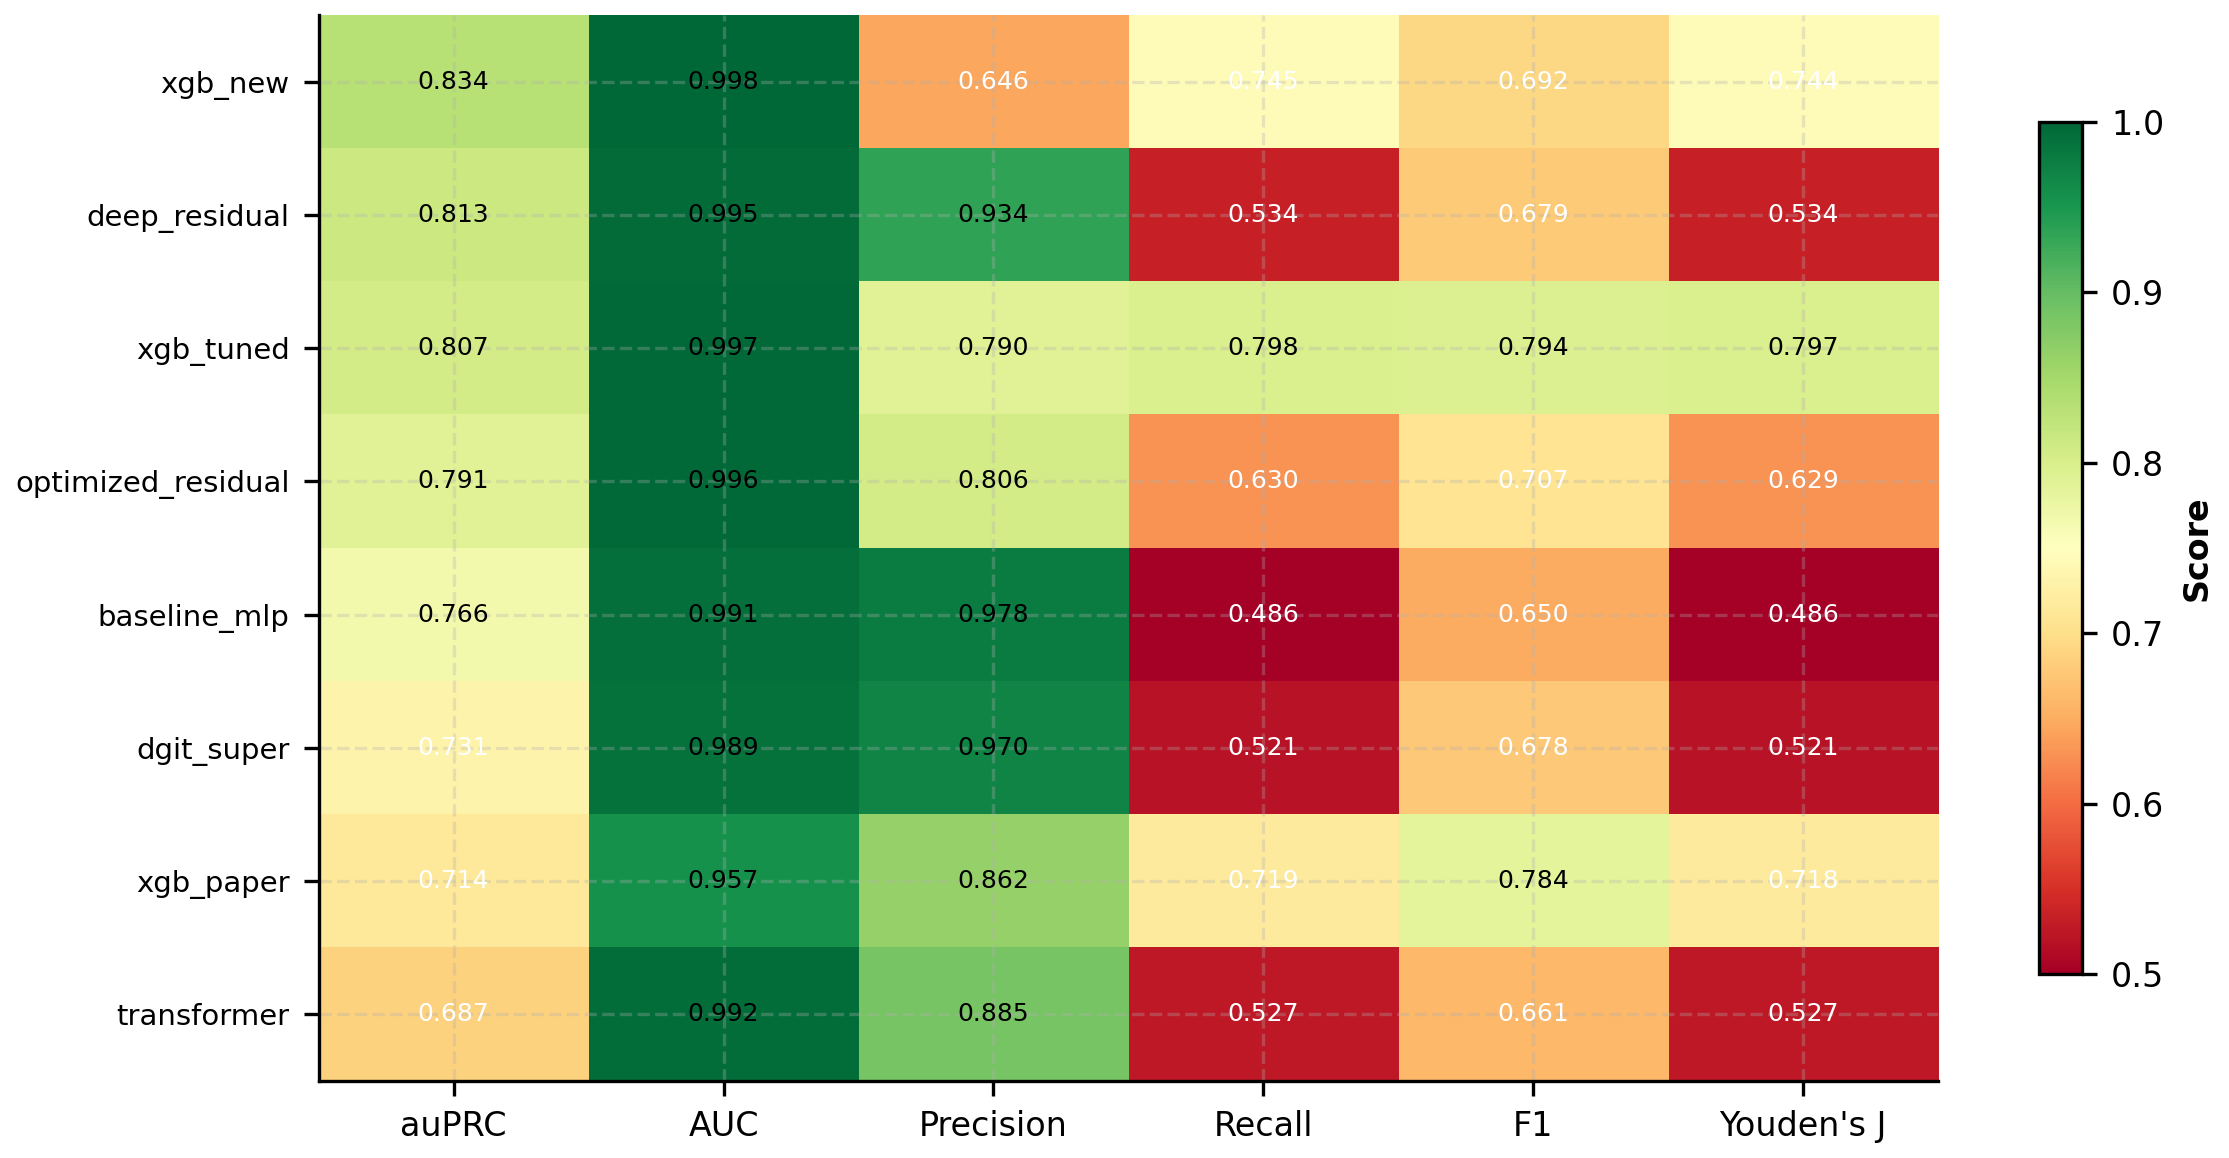
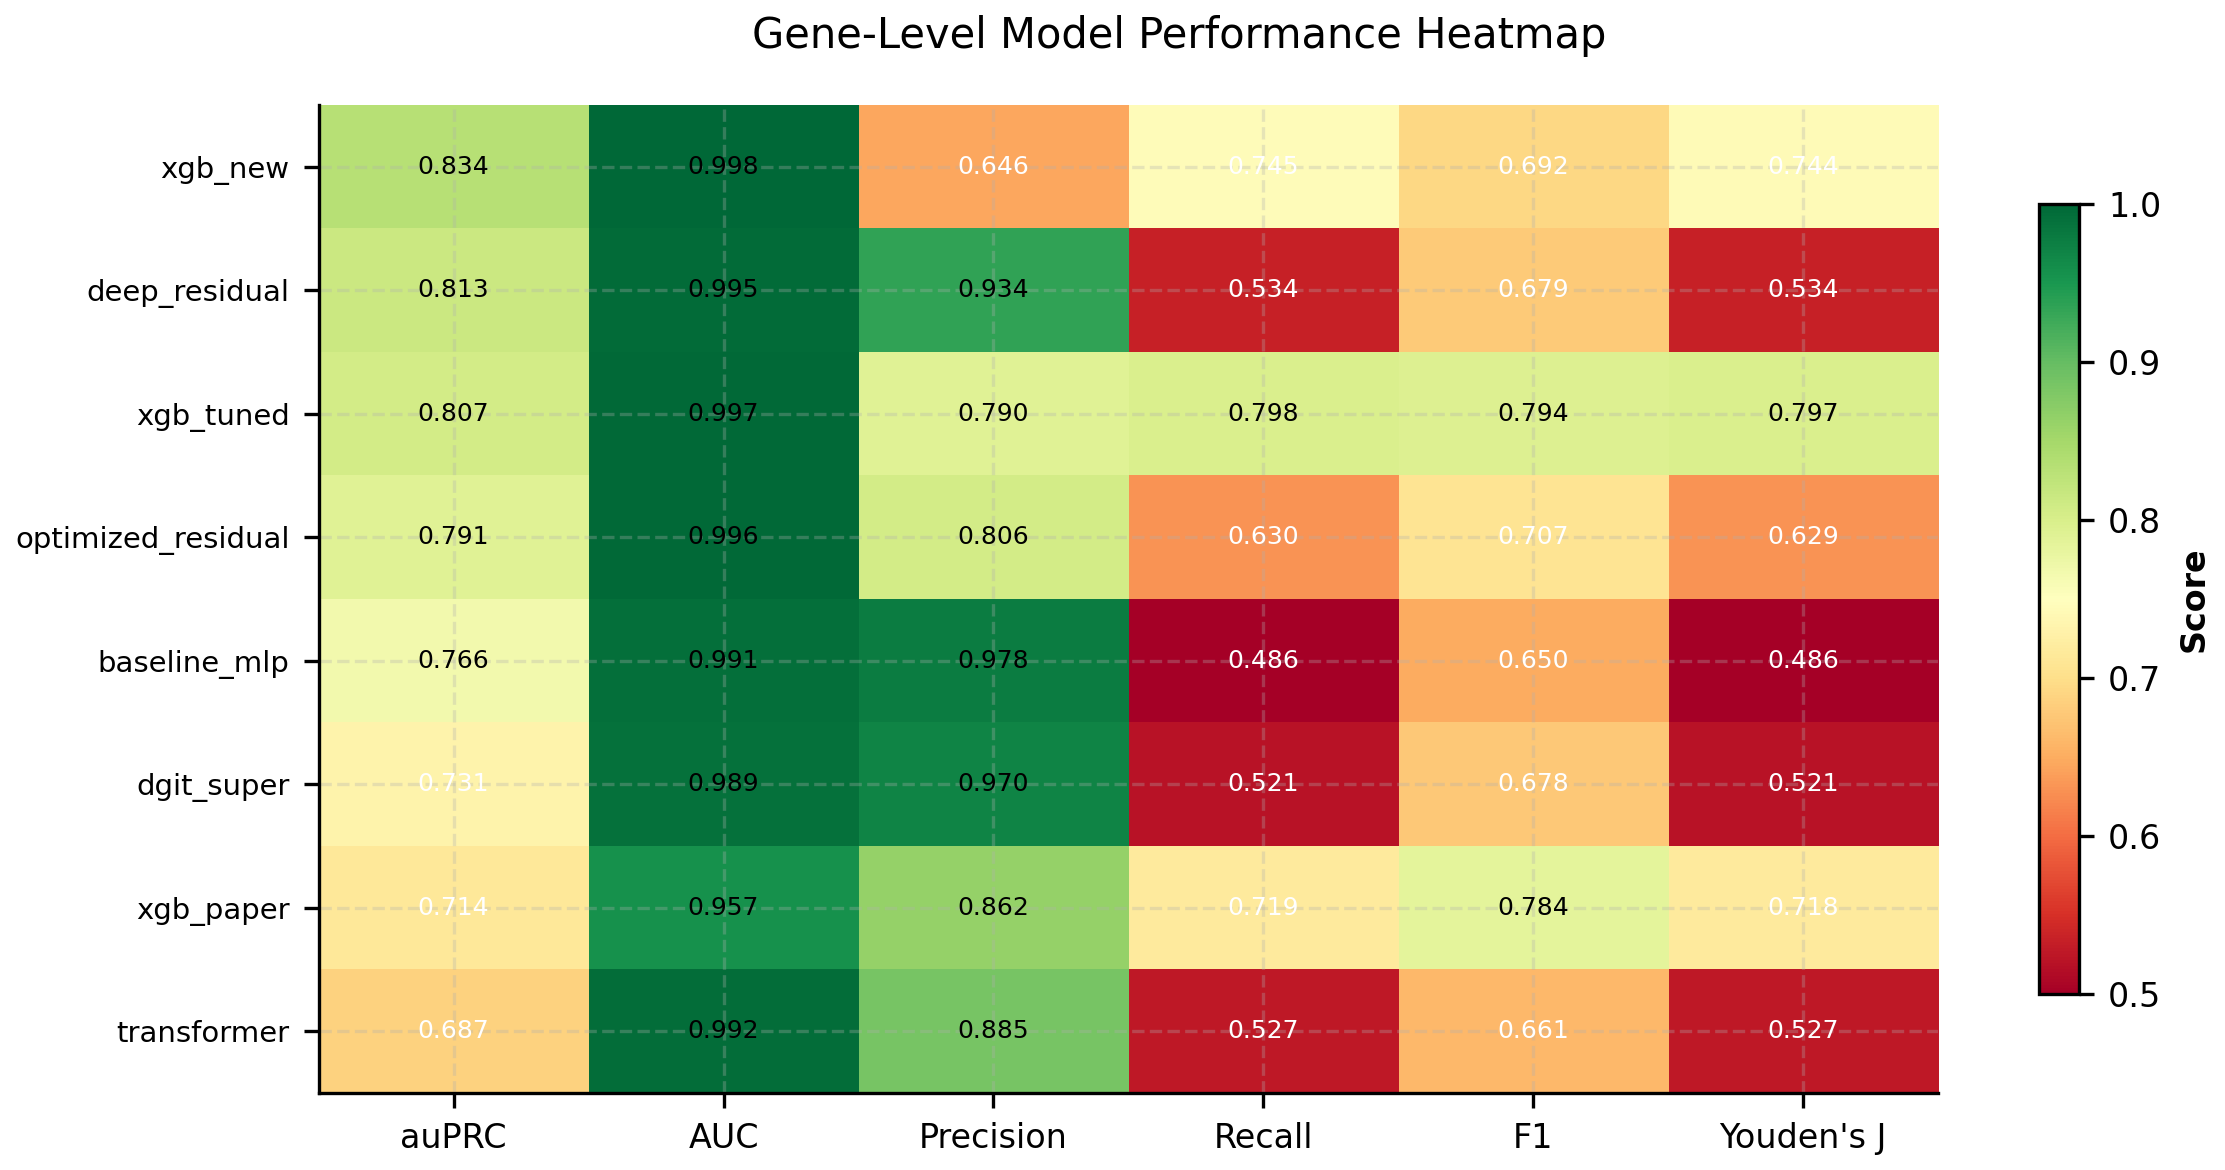
fix: add title to Figure 6 heatmap and verify Youden's J data
- Add 'Gene-Level Model Performance Heatmap' title to Figure 6
- Update report description for Figure 6
- Verify all Youden's J data is correctly calculated and displayed

Data verification:
- Sample-level Youden's J: 0.74-0.97 range
- Gene-level Youden's J: 0.49-0.80 range
- All 6 metrics correctly displayed in all charts

diff --git a/otk_api/model_analyzer.py b/otk_api/model_analyzer.py
@@ -915,11 +915,11 @@ class ModelAnalyzer:
         lines.append("*Figure 5: Multi-dimensional performance comparison of top 5 models on test set. (a) Gene-level radar chart. (b) Sample-level radar chart. Larger area indicates better overall performance.*")
         lines.append("")
         
-        lines.append("#### Figure 6: Model Ranking Heatmap (Test Set)")
+        lines.append("#### Figure 6: Gene-Level Model Performance Heatmap")
         lines.append("")
         lines.append("![Model Ranking Heatmap](model_ranking_heatmap.png)")
         lines.append("")
-        lines.append("*Figure 6: Heatmap visualization of model performance on test set across multiple metrics. Darker green indicates better performance.*")
+        lines.append("*Figure 6: Gene-level model performance heatmap on test set. Six metrics are compared: auPRC, AUC, Precision, Recall, F1, and Youden's J. Darker green indicates better performance.*")
         lines.append("")
         
         lines.append("### Test Set Performance (Primary Evaluation)")
@@ -1431,8 +1431,9 @@ class ModelAnalyzer:
         plt.close()
         print(f"Saved: {output_dir / 'performance_radar.png'}")
         
-        # 6. 模型排名热力图 - 适合 web 展示
+        # 6. Gene-Level Model Ranking Heatmap
         fig, ax = plt.subplots(figsize=(8, 4))
+        fig.suptitle('Gene-Level Model Performance Heatmap', fontsize=10)
         
         metrics_for_heatmap = ['auPRC', 'AUC', 'Precision', 'Recall', 'F1', "Youden's J"]
         heatmap_data = []
